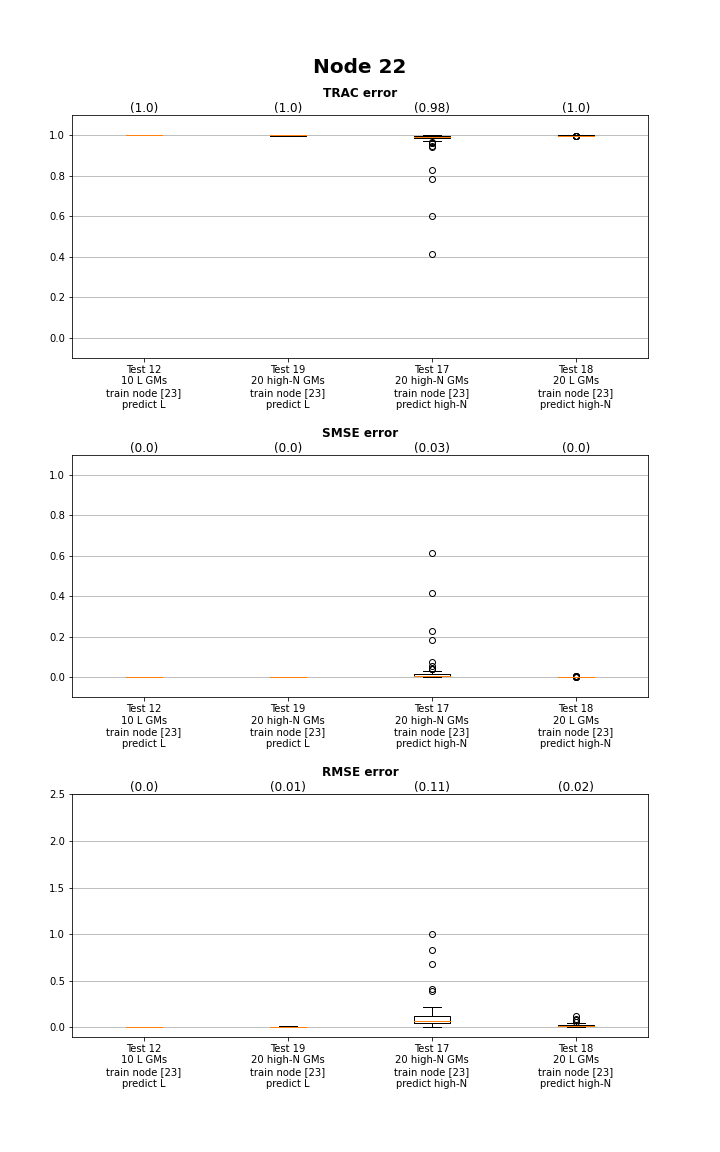
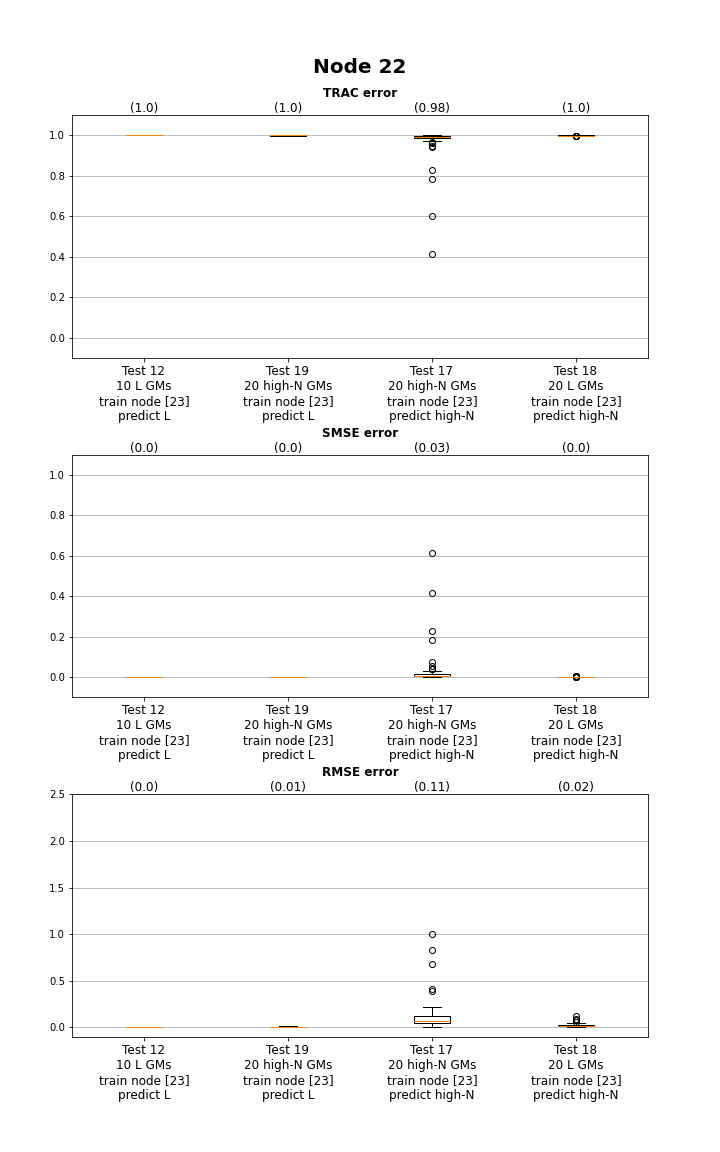
Changesto BoxPlots 18Tests

diff --git a/OpenSeesPy_Model_2_Steel_Frame_2D_Python/Box_plots.py b/OpenSeesPy_Model_2_Steel_Frame_2D_Python/Box_plots.py
@@ -110,21 +110,24 @@ for i in nodes:
         if plot_box:
         
             # TRAC boxplot
-            axes[0].boxplot(df.loc['TRAC'].values.reshape(-1,1), widths=0.25, positions=[j], labels = [test_lab])        
+            axes[0].boxplot(df.loc['TRAC'].values.reshape(-1,1), widths=0.25, positions=[j], labels = [test_lab])
+            axes[0].tick_params(axis='x', labelrotation=0, labelsize=12)
             axes[0].set_title('TRAC error',  y=1.05, fontweight="bold", fontsize = '12')
             axes[0].text(x=(j+0.5)/(len(test_vec)) , y=1, s=f"({round(df.loc['TRAC'].values.reshape(-1,1).mean(),2)})", 
                           va='bottom', ha='center', transform = axes[0].transAxes, fontsize = '12')
             axes[0].set_ylim(-0.1,1.1)
             
             # SMSE boxplot
-            axes[1].boxplot(df.loc['SMSE'].values.reshape(-1,1), widths=0.25, positions=[j], labels = [test_lab])   
+            axes[1].boxplot(df.loc['SMSE'].values.reshape(-1,1), widths=0.25, positions=[j], labels = [test_lab])  
+            axes[1].tick_params(axis='x', labelrotation=0, labelsize=12)
             axes[1].set_title('SMSE error',  y=1.05, fontweight="bold", fontsize = '12')
             axes[1].text(x=(j+0.5)/(len(test_vec)) , y=1, s=f"({round(df.loc['SMSE'].values.reshape(-1,1).mean(),2)})", 
                           va='bottom', ha='center', transform = axes[1].transAxes, fontsize = '12')
             axes[1].set_ylim(-0.1,1.1)
             # RMSE boxplot
             
-            axes[2].boxplot(df.loc['RMSE'].values.reshape(-1,1), widths=0.25, positions=[j], labels = [test_lab])   
+            axes[2].boxplot(df.loc['RMSE'].values.reshape(-1,1), widths=0.25, positions=[j], labels = [test_lab]) 
+            axes[2].tick_params(axis='x', labelrotation=0, labelsize=12)
             axes[2].set_title('RMSE error',  y=1.05, fontweight="bold", fontsize = '12')
             axes[2].text(x=(j+0.5)/(len(test_vec)) , y=1, s=f"({round(df.loc['RMSE'].values.reshape(-1,1).mean(),2)})", 
                           va='bottom', ha='center', transform = axes[2].transAxes, fontsize = '12')
